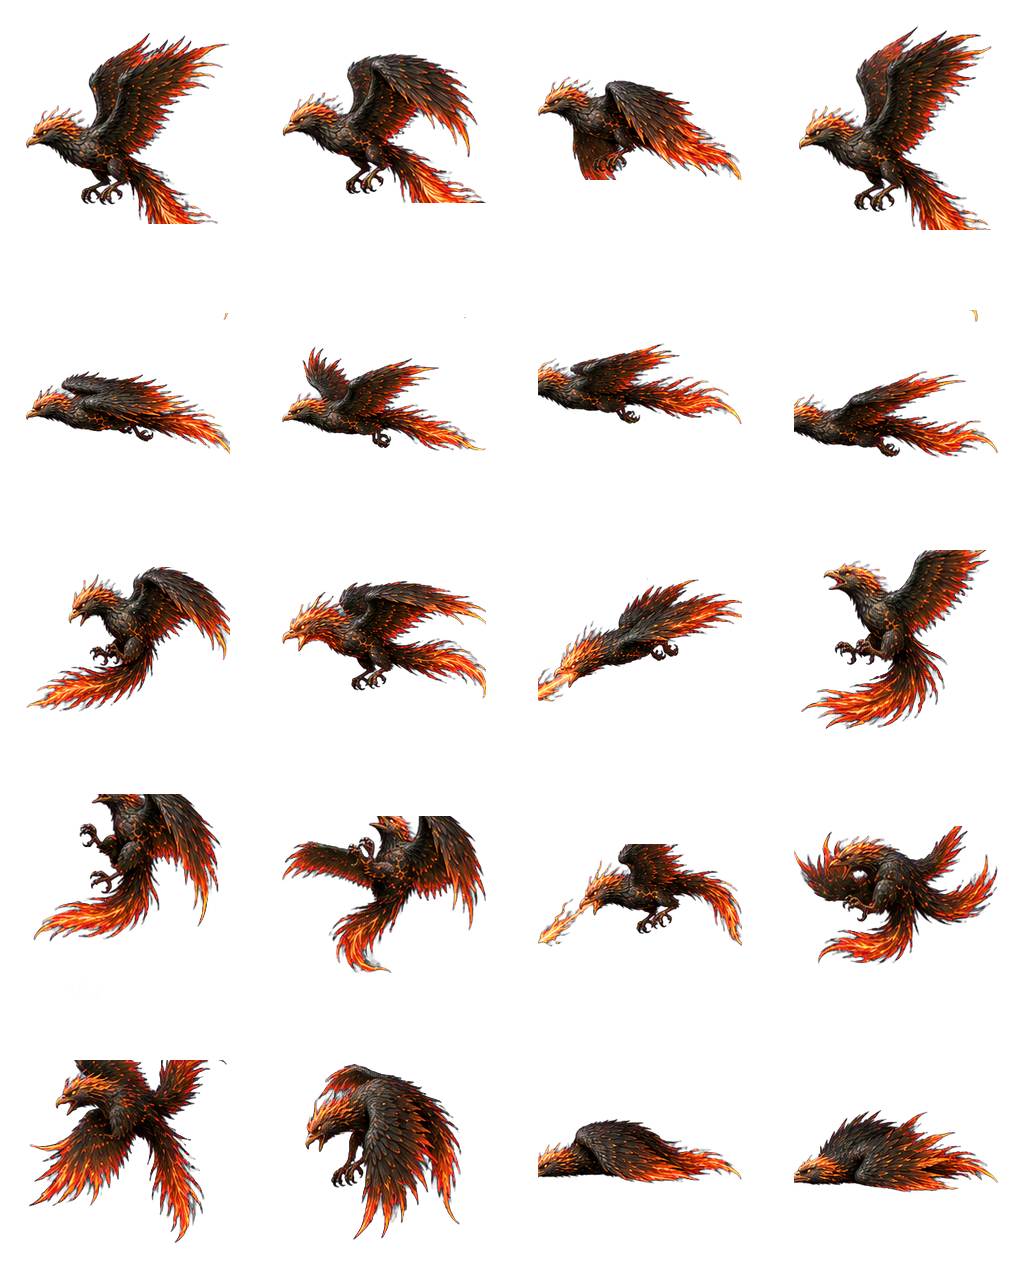
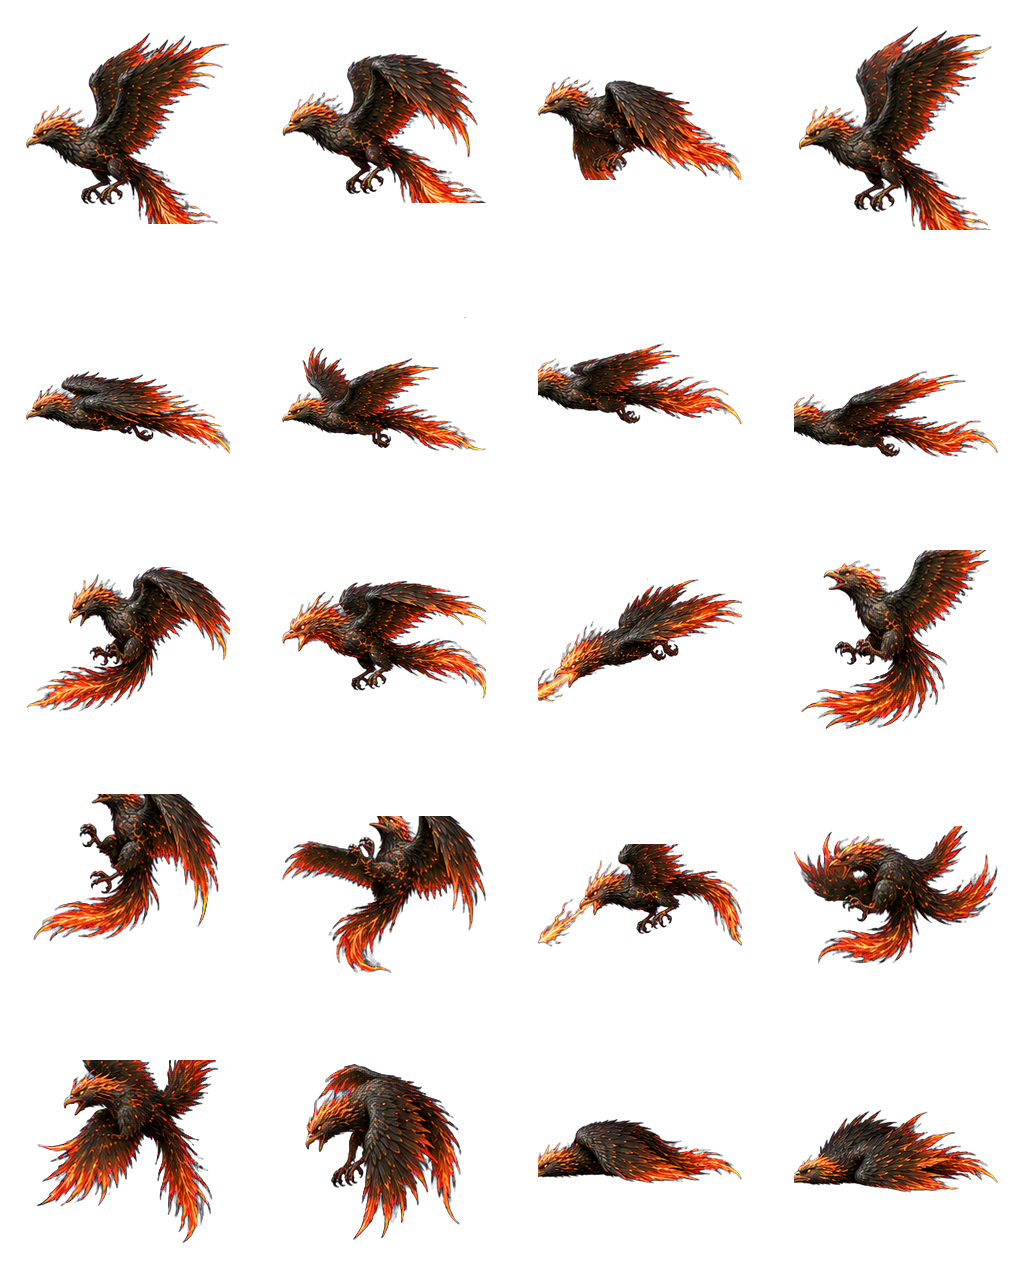
fix: remove detached atlas frame artifacts

Changed region(s): [[0.0312, 0.8125, 0.2188, 0.9688]]

diff --git a/cocos-client/tools/import-monster-atlas.py b/cocos-client/tools/import-monster-atlas.py
@@ -115,11 +115,14 @@ def remove_edge_fragments(frame: Image.Image) -> Image.Image:
         return frame
 
     largest = max(components, key=len)
+    largest_xs = [point[0] for point in largest]
+    largest_ys = [point[1] for point in largest]
+    largest_box = (min(largest_xs), min(largest_ys), max(largest_xs), max(largest_ys))
     edge = (FRAME_SIZE - SAFE_EXTENT) // 2 + 4
     output = frame.copy()
     output_pixels = output.load()
     for component in components:
-        if component is largest or len(component) < 30:
+        if component is largest or len(component) < 4:
             continue
         xs = [point[0] for point in component]
         ys = [point[1] for point in component]
@@ -129,7 +132,10 @@ def remove_edge_fragments(frame: Image.Image) -> Image.Image:
             or max(xs) >= FRAME_SIZE - edge - 1
             or max(ys) >= FRAME_SIZE - edge - 1
         )
-        if touches_safe_edge:
+        horizontal_gap = max(largest_box[0] - max(xs) - 1, min(xs) - largest_box[2] - 1, 0)
+        vertical_gap = max(largest_box[1] - max(ys) - 1, min(ys) - largest_box[3] - 1, 0)
+        detached_from_subject = horizontal_gap > 6 or vertical_gap > 6
+        if touches_safe_edge or detached_from_subject:
             for x, y in component:
                 output_pixels[x, y] = (0, 0, 0, 0)
 
@@ -142,6 +148,10 @@ def remove_edge_fragments(frame: Image.Image) -> Image.Image:
     subject = subject.resize(size, Image.Resampling.LANCZOS)
     normalized = Image.new("RGBA", (FRAME_SIZE, FRAME_SIZE), (0, 0, 0, 0))
     normalized.alpha_composite(subject, ((FRAME_SIZE - subject.width) // 2, (FRAME_SIZE - subject.height) // 2))
+    normalized.putdata([
+        pixel if pixel[3] > 12 else (0, 0, 0, 0)
+        for pixel in normalized.get_flattened_data()
+    ])
     return normalized
 
 
